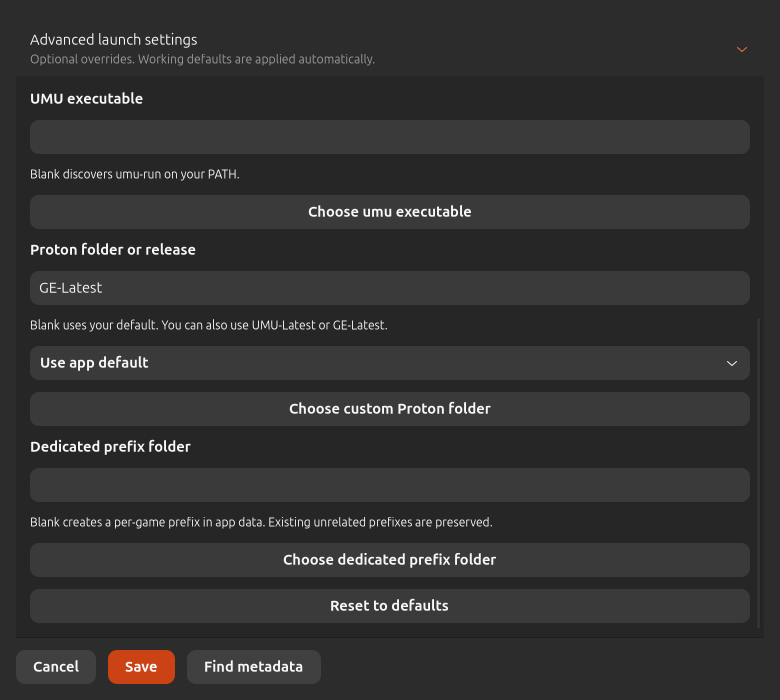
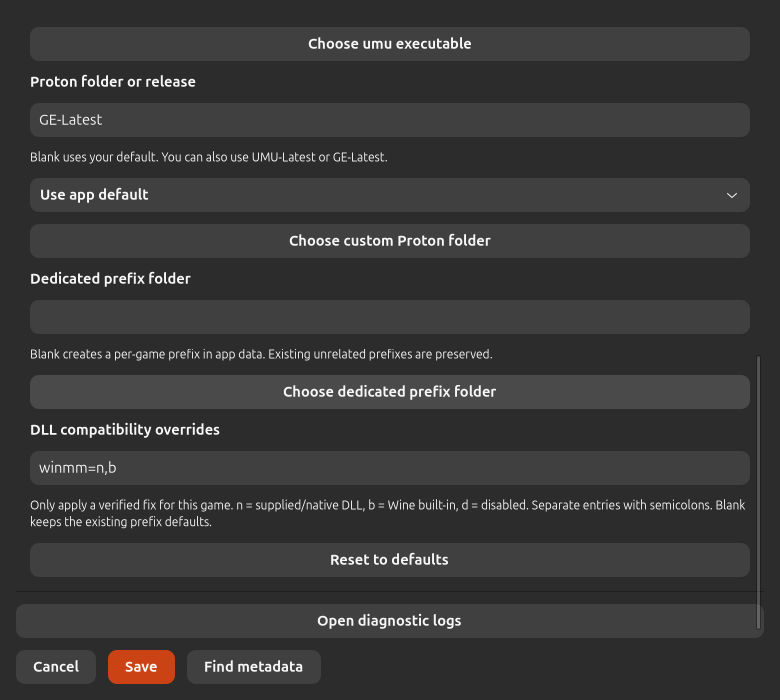
Add per-game DLL compatibility settings and automatic Proton diagnostics

Changed region(s): [[0.0, 0.21, 0.9846, 0.93], [0.0308, 0.03, 0.9846, 0.18], [0.3692, 0.78, 0.6462, 0.81]]

diff --git a/tests/test_launcher.py b/tests/test_launcher.py
@@ -1,4 +1,5 @@
 import json
+import zipfile
 from pathlib import Path
 import tempfile
 import time
@@ -32,6 +33,37 @@ class LaunchTests(unittest.TestCase):
         self.assertEqual(cwd,str(self.root/'games')); self.assertNotIn('SECRET_TOKEN',env)
         for key in ('GAMEID','STORE','SteamAppId'): self.assertNotIn(key,env)
         self.assertEqual(env['PROTONPATH'],str(self.proton)); self.assertFalse(Path(env['WINEPREFIX']).exists())
+
+    def test_dll_overrides_are_per_game_validated_and_not_inherited(self):
+        self.game['launch']['dll_overrides']='winmm=n,b;dinput8=b,n'
+        _,_,env=build_command(self.game,self.lib.root,{'WINEDLLOVERRIDES':'global=n'})
+        self.assertEqual(env['WINEDLLOVERRIDES'],'winmm=n,b;dinput8=b,n')
+        self.game['launch'].pop('dll_overrides')
+        self.assertNotIn('WINEDLLOVERRIDES',build_command(self.game,self.lib.root,{'WINEDLLOVERRIDES':'global=n'})[2])
+        for invalid in ('winmm=n,b;PATH=x','winmm=n,b\nother=n','$(touch bad)','winmm=x',None):
+            self.game['launch']['dll_overrides']=invalid
+            with self.subTest(invalid=invalid),self.assertRaises(ValueError):build_command(self.game,self.lib.root)
+
+    def test_diagnostics_defaults_and_compatibility_backup_roundtrip(self):
+        self.game['launch']['dll_overrides']='winmm=n,b';self.lib.save(self.game)
+        env=build_command(self.game,self.lib.root)[2]
+        self.assertEqual(env['PROTON_LOG'],'-all,+seh,+loaddll')
+        self.assertEqual(env['PROTON_LOG_DIR'],str(self.lib.root/'diagnostics'/self.game['id']))
+        diagnostic=self.lib.root/'diagnostics'/self.game['id'];diagnostic.mkdir(parents=True);(diagnostic/'steam-default.log').write_text('private log')
+        archive=self.root/'backup.zip';self.lib.export_zip(archive)
+        with zipfile.ZipFile(archive) as saved:self.assertFalse(any('diagnostics' in name for name in saved.namelist()))
+        restored=Library(self.root/'restore');restored.import_zip(archive)
+        self.assertEqual(restored.games()[0]['launch']['dll_overrides'],'winmm=n,b')
+
+    def test_failed_launch_creates_diagnostics_before_runner_starts(self):
+        self.runner.write_text('#!/usr/bin/python3\nimport os,pathlib,sys\nfolder=pathlib.Path(os.environ["PROTON_LOG_DIR"])\nassert folder.is_dir()\n(folder/"steam-default.log").write_text("fixture crash")\nsys.exit(9)\n')
+        launch=Launcher(self.lib.root);launch.start(self.game)
+        deadline=time.monotonic()+5
+        while launch.active() and time.monotonic()<deadline:time.sleep(.03)
+        self.assertFalse(launch.active())
+        state=launch.snapshot(self.game['id'])
+        self.assertEqual(state['state'],'Error');self.assertEqual(state['code'],9)
+        self.assertEqual((Path(state['diagnostics_dir'])/'steam-default.log').read_text(),'fixture crash')
 
     def test_missing_and_unsafe_paths(self):
         for key,value in [('runner','/missing'),('proton','/missing'),('prefix',str(self.root/'games'/'game ; $.exe'))]:

diff --git a/game_library/launcher.py b/game_library/launcher.py
@@ -12,7 +12,7 @@ import sys
 import time
 from uuid import UUID
 
-FIELDS={'runner','proton','prefix','arguments'}
+FIELDS={'runner','proton','prefix','arguments','dll_overrides'}
 ACTIVE={'Preparing','Downloading runtime','Running','Stopping'}
 MARKER='.metadata-manager-prefix'
 
@@ -38,6 +38,9 @@ def validate_settings(settings):
     for key in ('runner','proton','prefix'):
         value=settings.get(key,'')
         if not isinstance(value,str) or len(value)>4096 or '\x00' in value: raise ValueError('Invalid launch '+key+'.')
+    overrides=settings.get('dll_overrides','')
+    if not isinstance(overrides,str) or len(overrides)>1024 or (overrides and not re.fullmatch(r'[A-Za-z0-9_.-]+=(?:n,b|b,n|n|b|d)(?:;[A-Za-z0-9_.-]+=(?:n,b|b,n|n|b|d))*',overrides)):
+        raise ValueError('DLL overrides must use entries such as winmm=n,b, separated by semicolons. Allowed orders: n,b / b,n / n / b / d.')
     args=settings.get('arguments',[])
     if not isinstance(args,list) or len(args)>128 or any(not isinstance(a,str) or len(a)>8192 or '\x00' in a or '\n' in a or '\r' in a for a in args):
         raise ValueError('Direct arguments must be a list of at most 128 single-line strings.')
@@ -59,7 +62,7 @@ def defaults(game,root):
     return {'runner':settings.get('runner') or found['runner'],
             'proton':settings.get('proton') or installed.get('proton') or (found['protons'][0] if found['protons'] else 'UMU-Latest'),
             'prefix':settings.get('prefix') or installed.get('prefix') or str(Path(root)/'prefixes'/game['id']),
-            'arguments':arguments}
+            'arguments':arguments,'dll_overrides':settings.get('dll_overrides','')}
 
 
 def build_command(game,root,inherited=None):
@@ -83,6 +86,8 @@ def build_command(game,root,inherited=None):
     if any(parent.is_symlink() for parent in prefix.parents): raise ValueError('Choose a prefix without symbolic-link parents.')
     env={k:v for k,v in (inherited if inherited is not None else os.environ).items() if k in {'HOME','USER','LOGNAME','PATH','LANG','DISPLAY','WAYLAND_DISPLAY','DBUS_SESSION_BUS_ADDRESS','XAUTHORITY','XDG_RUNTIME_DIR','XDG_SESSION_TYPE','XDG_DATA_HOME','XDG_CONFIG_HOME','XDG_CACHE_HOME','XDG_DATA_DIRS','PULSE_SERVER','PIPEWIRE_REMOTE','DRI_PRIME','__NV_PRIME_RENDER_OFFLOAD','__GLX_VENDOR_LIBRARY_NAME'} or k.startswith('LC_')}
     env.update(WINEPREFIX=str(prefix),PROTONPATH=proton,UMU_LOG='debug',PYTHONUNBUFFERED='1')
+    env.update(PROTON_LOG='-all,+seh,+loaddll',PROTON_LOG_DIR=str(Path(root)/'diagnostics'/game['id']))
+    if settings['dll_overrides']:env['WINEDLLOVERRIDES']=settings['dll_overrides']
     # GAMEID/STORE are deliberately unset; catalog IDs are not gamefix IDs.
     return [str(runner),str(exe),*settings['arguments']],str(cwd),env
 

diff --git a/game_library/app.py b/game_library/app.py
@@ -764,6 +764,7 @@ class Window(Adw.ApplicationWindow):
         advanced=Adw.ExpanderRow(title='Advanced launch settings',subtitle='Optional overrides. Working defaults are applied automatically.');content.append(advanced);self.advanced=advanced
         advanced_content=box();margins(advanced_content,12);advanced.add_row(advanced_content);self.build_advanced(advanced_content)
         advanced_content.append(button('Reset to defaults',self.reset_launch_defaults))
+        content.append(button('Open diagnostic logs',self.open_diagnostic_logs))
         footer.append(button('Find metadata',self.find_metadata))
         dialog.present();self.refresh_launch_state()
 
@@ -1173,6 +1174,17 @@ class Window(Adw.ApplicationWindow):
                 self.proton_choice=select
                 select.connect('notify::selected',lambda w,_:self.launch_fields['proton'].set_text('' if w.get_selected()==0 else choices[w.get_selected()]))
                 page.append(select);page.append(button('Choose custom Proton folder',lambda:self.choose_file('Choose Proton',lambda p:self.launch_fields['proton'].set_text(str(p)),folder=True)))
+
+        page.append(label('DLL compatibility overrides','heading',xalign=0))
+        overrides=Gtk.Entry(text=settings.get('dll_overrides',''),placeholder_text='Example: winmm=n,b')
+        self.launch_fields['dll_overrides']=overrides;page.append(overrides)
+        page.append(label('Only apply a verified fix for this game. n = supplied/native DLL, b = Wine built-in, d = disabled. Separate entries with semicolons. Blank keeps the existing prefix defaults.','caption',wrap=True,xalign=0))
+
+    def open_diagnostic_logs(self):
+        folder=self.library.root/'diagnostics'/self.game['id']
+        if not folder.is_dir():self.notify('No diagnostic logs yet. Logs are recorded automatically when you play or install.');return
+        try:Gio.AppInfo.launch_default_for_uri(folder.as_uri(),None)
+        except Exception as error:self.error(error)
 
     def build_game_arguments(self,page):
         settings=self.game.get('launch',{})

diff --git a/tools/ui_smoke.py b/tools/ui_smoke.py
@@ -70,13 +70,15 @@ with tempfile.TemporaryDirectory() as temp:
     w.open_manage();assert not w.advanced.get_expanded();w.advanced.set_expanded(True);settle()
     assert w.launch_args.is_ancestor(w.executable_panel) and not w.launch_args.is_ancestor(w.advanced)
 
-    w.launch_fields['proton'].set_text('GE-Latest');w.launch_args.get_buffer().set_text('one argument\n--flag')
+    w.launch_fields['dll_overrides'].set_text('winmm=n,b');w.launch_fields['proton'].set_text('GE-Latest');w.launch_args.get_buffer().set_text('one argument\n--flag')
     screenshot('manage-game-dark.png',w.editor)
     viewport=w.editor.get_child().get_first_child();adjustment=viewport.get_vadjustment();assert adjustment.get_page_size()>100 and adjustment.get_upper()>adjustment.get_page_size()
     adjustment.set_value(adjustment.get_upper()-adjustment.get_page_size());settle();assert adjustment.get_value()>0
     screenshot('advanced-bottom-dark.png',w.editor);w.save_editor()
     assert library.games()[0]['launch']['arguments']==['one argument','--flag']
-    w.open_manage();w.reset_launch_defaults();assert w.collect()['launch']['arguments']==['one argument','--flag'];w.cancel_editor();assert library.games()[0]['launch']['proton']=='GE-Latest'
+    assert library.games()[0]['launch']['dll_overrides']=='winmm=n,b'
+    w.open_manage();w.launch_fields['dll_overrides'].set_text('dinput8=n');w.cancel_editor();assert library.games()[0]['launch']['dll_overrides']=='winmm=n,b'
+    w.open_manage();w.reset_launch_defaults();assert w.launch_fields['dll_overrides'].get_text()=='';assert w.collect()['launch']['arguments']==['one argument','--flag'];w.cancel_editor();assert library.games()[0]['launch']['proton']=='GE-Latest'
     # Metadata switching defaults to public catalogue, entirely fixture-backed.
     original_search=metadata.search;original_fetch=metadata.fetch_game
     metadata.search=lambda query:[{'id':620,'name':'Catalogue fixture'}]

diff --git a/game_library/launch_supervisor.py b/game_library/launch_supervisor.py
@@ -54,6 +54,11 @@ def main(request_path):
         if prefix.is_symlink() or (any(prefix.iterdir()) and not (prefix/MARKER).is_file()):raise ValueError('Prefix changed before launch. Existing data was preserved.')
         if not (prefix/MARKER).exists():
             with (prefix/MARKER).open('x') as f:f.write('Dedicated UMU prefix for Game Library Launcher.\n')
+        diagnostic_dir=request['env'].get('PROTON_LOG_DIR')
+        if diagnostic_dir:
+            folder=Path(diagnostic_dir);folder.mkdir(parents=True,exist_ok=True,mode=0o700)
+            state['diagnostics_dir']=str(folder)
+            logs.append('Detailed Proton logs: '+str(folder))
         save()
         with subprocess.Popen(request['argv'],cwd=request['cwd'],env=request['env'],stdin=subprocess.DEVNULL,stdout=subprocess.PIPE,stderr=subprocess.STDOUT,start_new_session=True) as process:
             owned[process.pid]=pid_identity(process.pid)

diff --git a/game_library/__init__.py b/game_library/__init__.py
@@ -1,3 +1,3 @@
 """Standalone installed-game library and UMU launcher."""
 
-__version__ = "0.4.10"
+__version__ = "0.4.11"

diff --git a/README.md b/README.md
@@ -85,3 +85,9 @@ Manage Game uses two stage tabs, Install and Game setup, with only one enabled a
 Steam asset manifests supply modern hash-qualified cover and hero URLs, with legacy fallback. Cricket 26 cover/hero were downloaded live and added to its existing entry without replacing saved artwork or changing launch configuration. Its separate logo was unavailable through these public endpoints. Fixture tests cover hash paths, rejected paths and API failure fallback; native smoke uses isolated data.
 
 Fullscreen layout checks include 1920×1080, 1280×720 and 1024×600 allocations, reachable scrollable content, horizontal selection scrolling and stable hero/rail position across games with differing artwork/text. Physical TV scaling and controller acceptance remain user checks.
+
+## Per-game compatibility and automatic diagnostics — 0.4.11
+
+UMU play and installer launches automatically request focused Proton exception/module logs. The latest Proton log for each game is stored locally under the app data directory `diagnostics/<game UUID>`; Manage Game → Open diagnostic logs opens that folder. If Proton fails before initializing, the operation log still records its failure and the folder may contain no Proton log. Logs can contain personal paths and are never included in portable ZIP backups. New attempts can replace the previous Proton log for the same game.
+
+Manage Game → Advanced launch settings includes optional DLL compatibility overrides, for example `winmm=n,b`. These are validated, passed as a process environment value without a shell, and apply only to that game's launch. Blank does not inject an override and preserves existing prefix registry settings. Save persists the override; Cancel discards changes; Reset to defaults clears the draft launch override but does not edit the prefix registry or erase installer continuity. Portable metadata backups retain the saved compatibility preference but not diagnostic logs. No blanket automatic DLL fixes or guessed UMU identifiers are applied. Existing runner choice, prefixes, game files and saves are preserved.

diff --git a/docs/DESIGN.md b/docs/DESIGN.md
@@ -90,3 +90,9 @@ Keyboard navigation is captured before grid children consume arrows, using the s
 Games-only icon artwork is reduced to 88px; selected/focused chips render at full size and the others at two-thirds scale (1.5× selection ratio), with a short transition and stable row height. Library grid cards have no scale effect and retain their previous dimensions.
 
 Fullscreen Settings is a separate modal (like Search), with Exit fullscreen and Exit actions; controller Back dismisses it without leaving fullscreen. Game arguments belong to Manage Game → Game setup, alongside executable and working directory. Advanced runner/prefix reset preserves those arguments.
+
+## Per-game compatibility and automatic diagnostics — 0.4.11
+
+UMU play and installer launches automatically request focused Proton exception/module logs. The latest Proton log for each game is stored locally under the app data directory `diagnostics/<game UUID>`; Manage Game → Open diagnostic logs opens that folder. If Proton fails before initializing, the operation log still records its failure and the folder may contain no Proton log. Logs can contain personal paths and are never included in portable ZIP backups. New attempts can replace the previous Proton log for the same game.
+
+Manage Game → Advanced launch settings includes optional DLL compatibility overrides, for example `winmm=n,b`. These are validated, passed as a process environment value without a shell, and apply only to that game's launch. Blank does not inject an override and preserves existing prefix registry settings. Save persists the override; Cancel discards changes; Reset to defaults clears the draft launch override but does not edit the prefix registry or erase installer continuity. Portable metadata backups retain the saved compatibility preference but not diagnostic logs. No blanket automatic DLL fixes or guessed UMU identifiers are applied. Existing runner choice, prefixes, game files and saves are preserved.

diff --git a/docs/VALIDATION.md b/docs/VALIDATION.md
@@ -83,3 +83,7 @@ Games-only icon artwork is reduced to 88px; selected/focused chips render at ful
 Fullscreen Settings is a separate modal (like Search), with Exit fullscreen and Exit actions; controller Back dismisses it without leaving fullscreen. Game arguments belong to Manage Game → Game setup, alongside executable and working directory. Advanced runner/prefix reset preserves those arguments.
 
 Final validation: 44 core tests pass, native isolated GUI smoke passes (including modal Save/Cancel, keyboard grid navigation, sliding/reduced-motion behavior, Search and Settings modal, and arguments retention). Lint, compilation and whitespace checks pass. Synthetic screenshots inspected; no real game/installer or physical TV/controller test performed.
+
+## Per-game compatibility and diagnostics — 0.4.11
+
+47 core tests pass. New cases cover validated per-game DLL overrides, rejection of injected/malformed settings, inherited override isolation, ZIP preference round-trip with diagnostic exclusion, and a harmless failing runner writing its log into the automatically prepared folder. Native GUI smoke passes with collapsed advanced settings, compatibility Save/Cancel/Reset, and existing browse/installer/tray/runner flows. Updated synthetic Manage Game screenshots inspected. Compilation, lint and whitespace checks pass. No real game or installer executed or stopped for this release; physical controller and real-game diagnostic replay remain untested.
